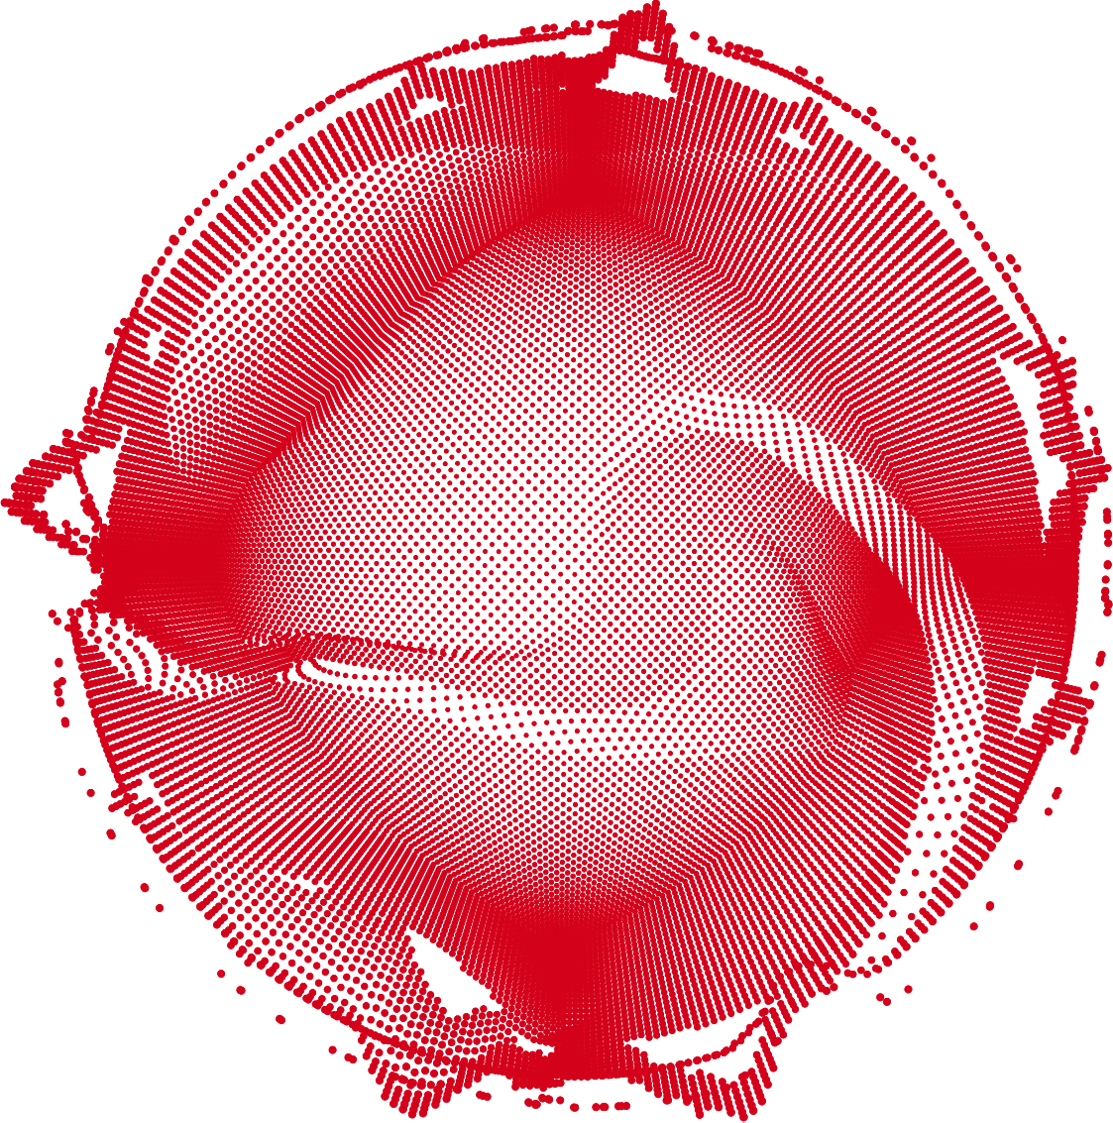
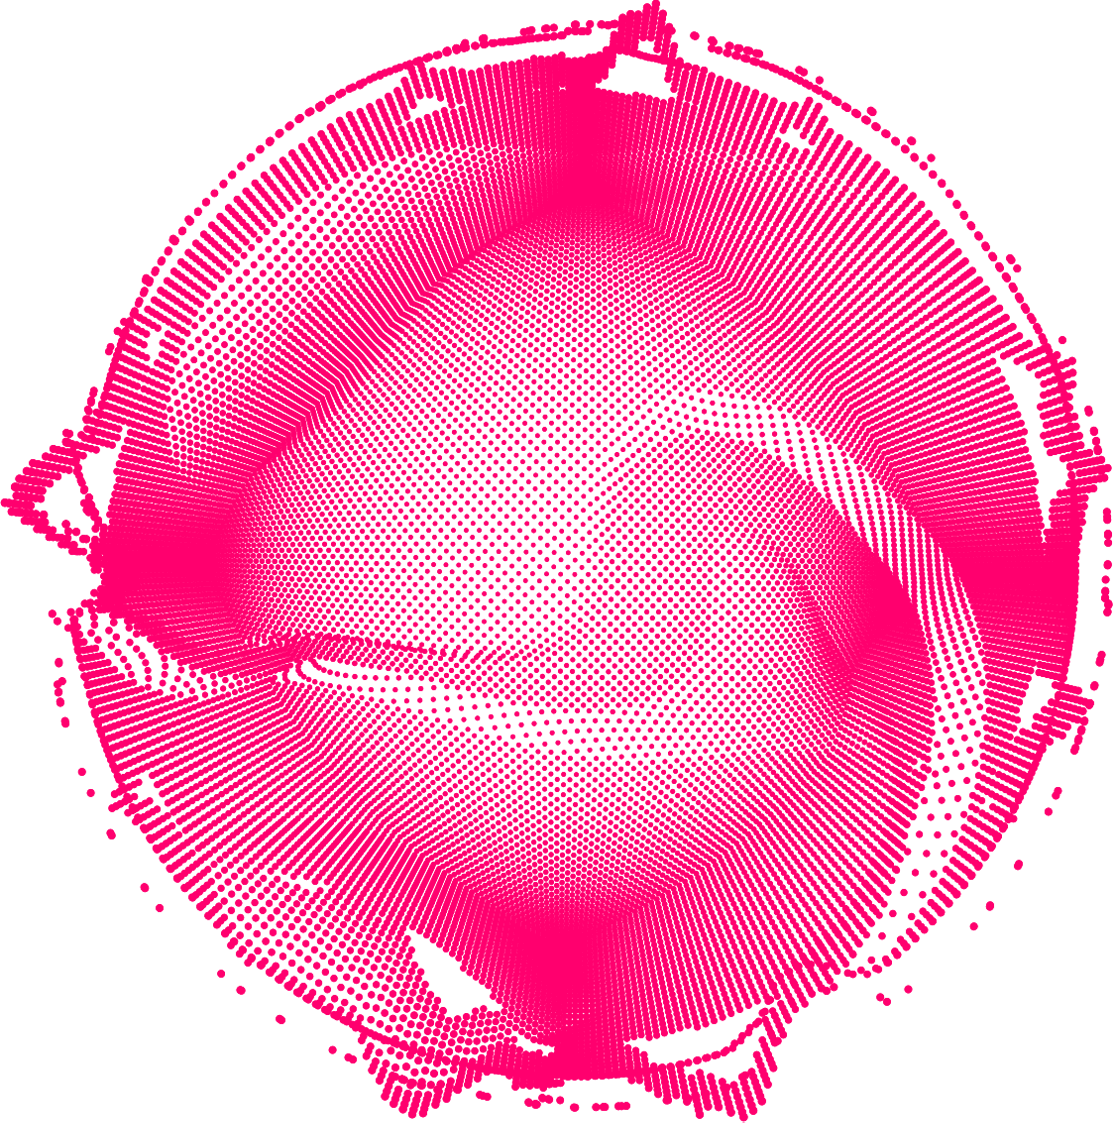
[v0.0.8] Atualização das cores

diff --git a/src/pages/styles.ts b/src/pages/styles.ts
@@ -4,10 +4,11 @@ export const FullBody = styled.main`
   background-color: #2b071e;
   background-image: linear-gradient(
     to bottom,
-    #250e1e 0%,
-    #2b071e 25%,
-    #29061e 50%,
-    #26071c 100%
+    #2a0b23 0%,
+    #141620 25%,
+    #10161e 50%,
+    #09161b 75%,
+    #071b22 100%
   );
   color: #ffffff;
   width: 100%;
@@ -27,7 +28,7 @@ export const TopWrapperRow = styled.div`
   max-height: 800px;
 `
 export const TopBackground = styled.div`
-  background-image: url('./img/000-bg-01-top.jpg');
+  background-image: url('./img/000-bg-01-top.png');
   width: 100%;
   max-height: 1363px;
   min-height: 1363px;
@@ -596,8 +597,8 @@ export const SocialMediaContainer = styled.div`
     cursor: pointer;
     &:hover {
       transform: scale(1.2);
-      filter: drop-shadow(3px 3px 0.5px #00fff0)
-        drop-shadow(-3px -3px 0.5px #d3021a);
+      filter: drop-shadow(3px 3px 0.5px #14fcff)
+        drop-shadow(-3px -3px 0.5px #ff006e);
     }
   }
 `

diff --git a/src/pages/index.tsx b/src/pages/index.tsx
@@ -1,4 +1,4 @@
-import React, { useRef } from 'react'
+import React from 'react'
 import { useSpring, animated } from 'react-spring/web.cjs'
 import { Parallax, ParallaxLayer } from 'react-spring/renderprops-addons'
 
@@ -31,8 +31,6 @@ const Main = ({ title = 'Eric Frank Li' }) => {
     xy: [0, 0],
     config: { mass: 10, tension: 550, friction: 140 },
   }))
-
-  // const refParallax = useRef<Parallax>()
 
   return (
     <Parallax pages={3} scrolling={true}>
@@ -118,7 +116,7 @@ const Main = ({ title = 'Eric Frank Li' }) => {
               </ParallaxLayer>
             </div>
           </S.TopWrapperRow>
-          <div className="row">{/* <div className="column">specs</div> */}</div>
+          <div className="row"></div>
         </S.TopContainer>
       </S.FullBody>
     </Parallax>

diff --git a/src/App.tsx b/src/App.tsx
@@ -1,17 +1,14 @@
 import React from 'react'
 import Main from './pages/index'
-import {
-  BrowserRouter as Router
-} from "react-router-dom"
+import { BrowserRouter as Router } from 'react-router-dom'
 import GlobalStyles from './assets/global'
-
 
 const App = () => {
   return (
-  <Router>
-    <GlobalStyles />
-    <Main></Main>
-  </Router>
+    <Router>
+      <GlobalStyles />
+      <Main></Main>
+    </Router>
   )
 }
 

diff --git a/src/assets/global.ts b/src/assets/global.ts
@@ -64,6 +64,7 @@ const GlobalStyles = createGlobalStyle`
 
   .column {
     flex-basis: calc(calc(800px - 100%) * 999);
+    width: 100%;
     padding: 10px;
     flex-grow: 1;
     flex-shrink: 1;
@@ -82,6 +83,14 @@ const GlobalStyles = createGlobalStyle`
   .h-100 {
     height: 100%;
     max-height: 100%;
+  }
+
+  .txt-red {
+    color: #ff006e;
+  }
+
+  .txt-blue {
+    color: #00fcff;
   }
 `
 
